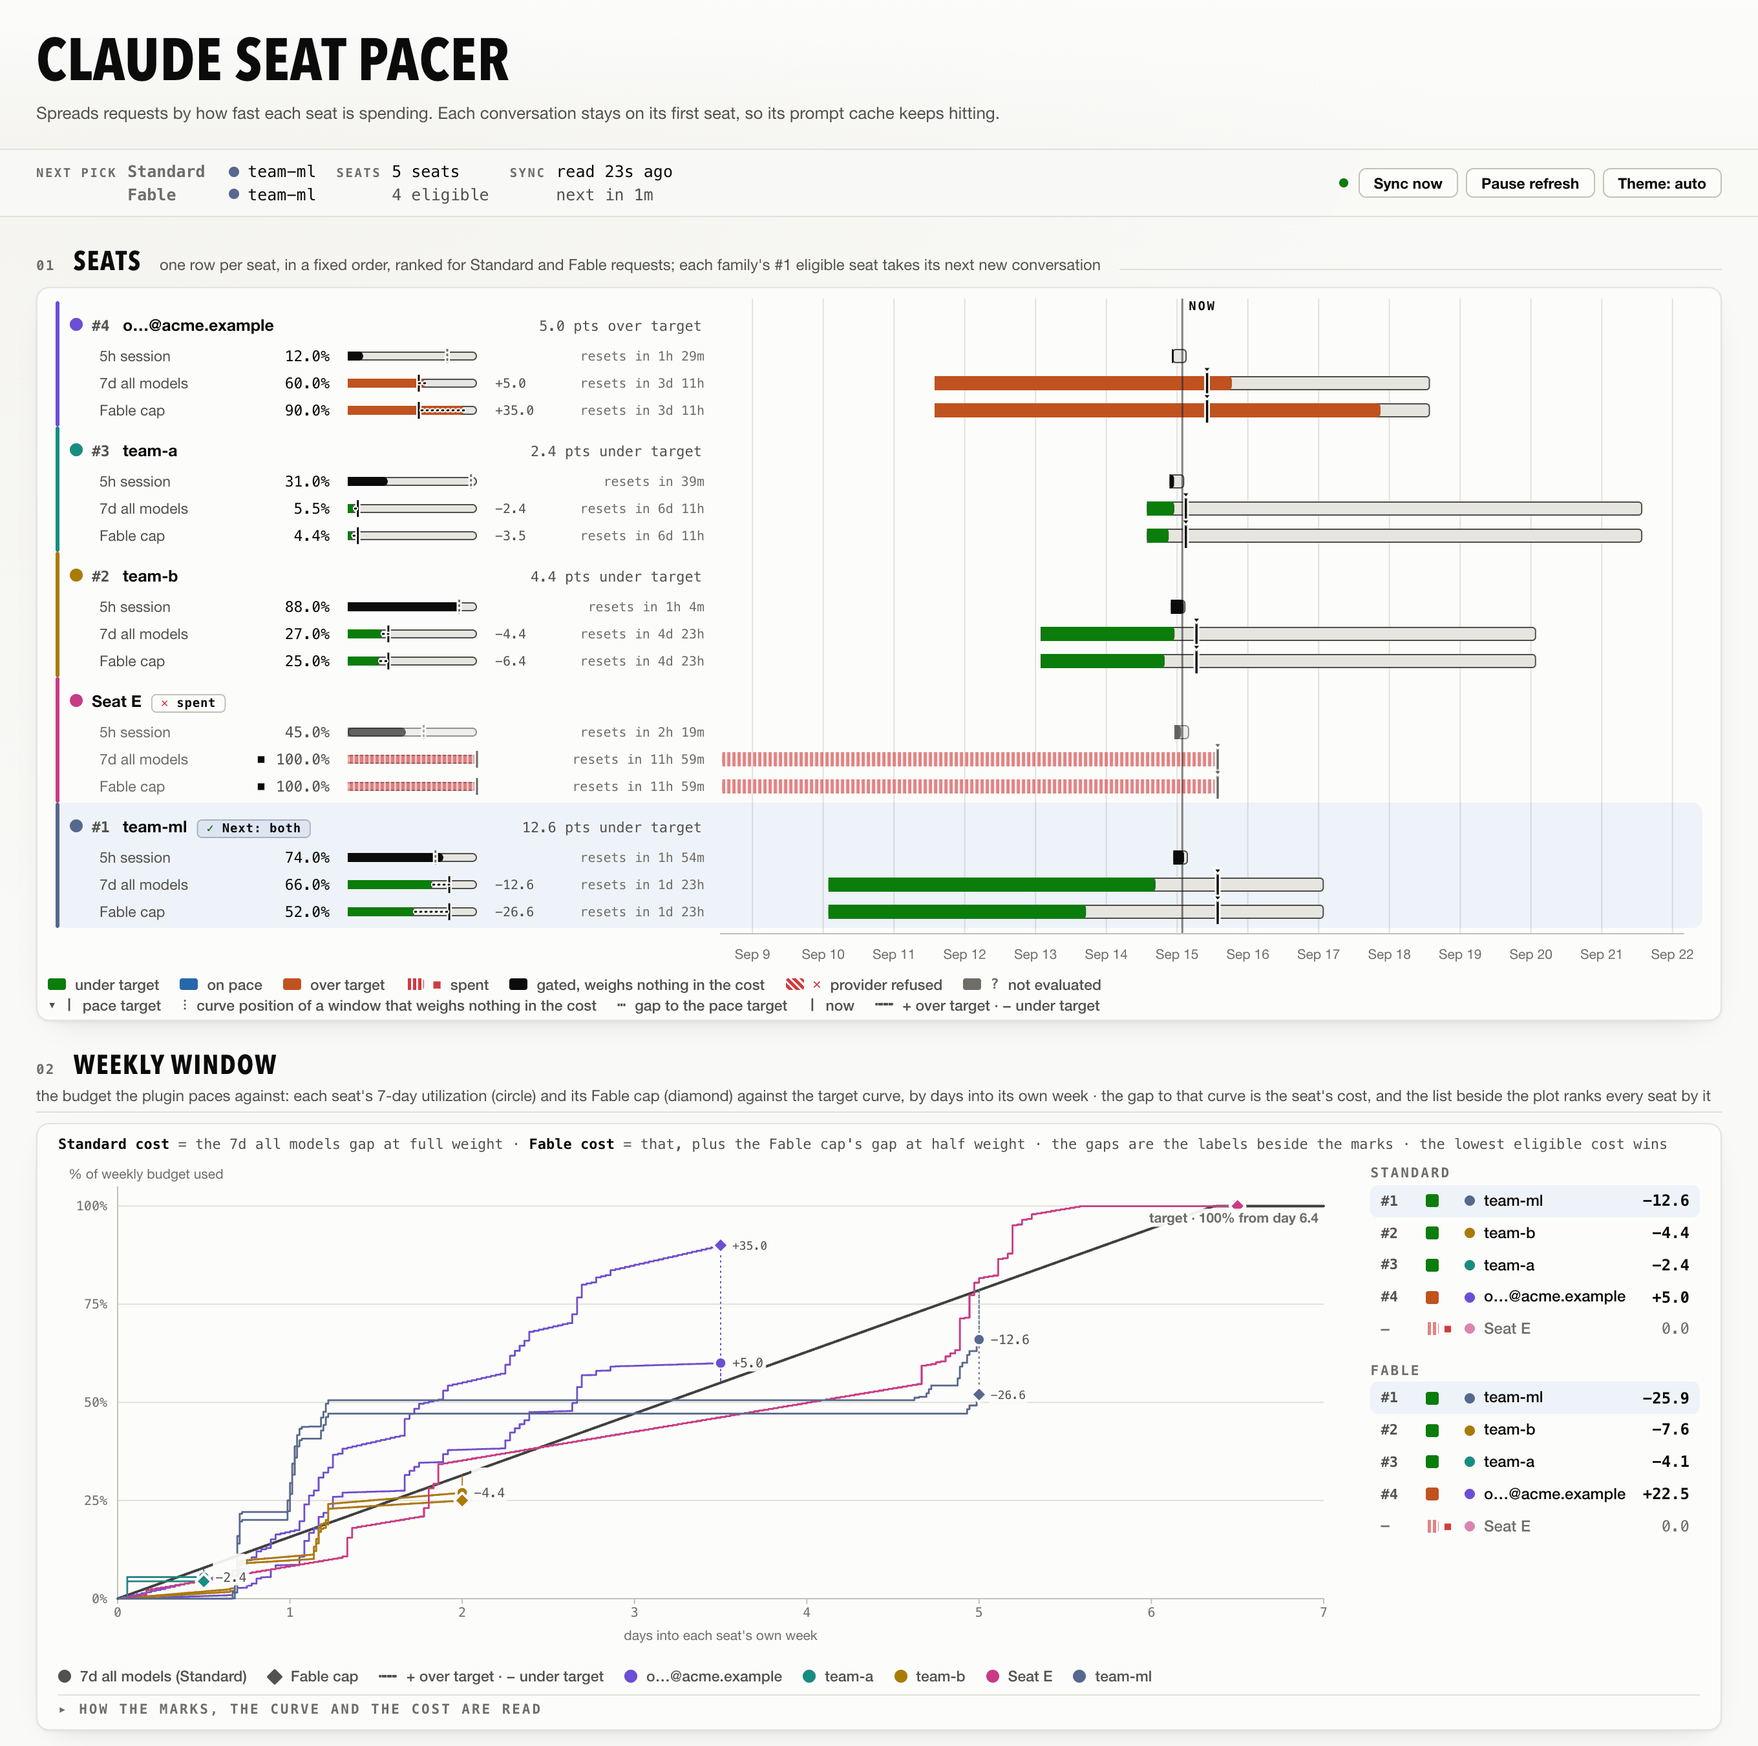
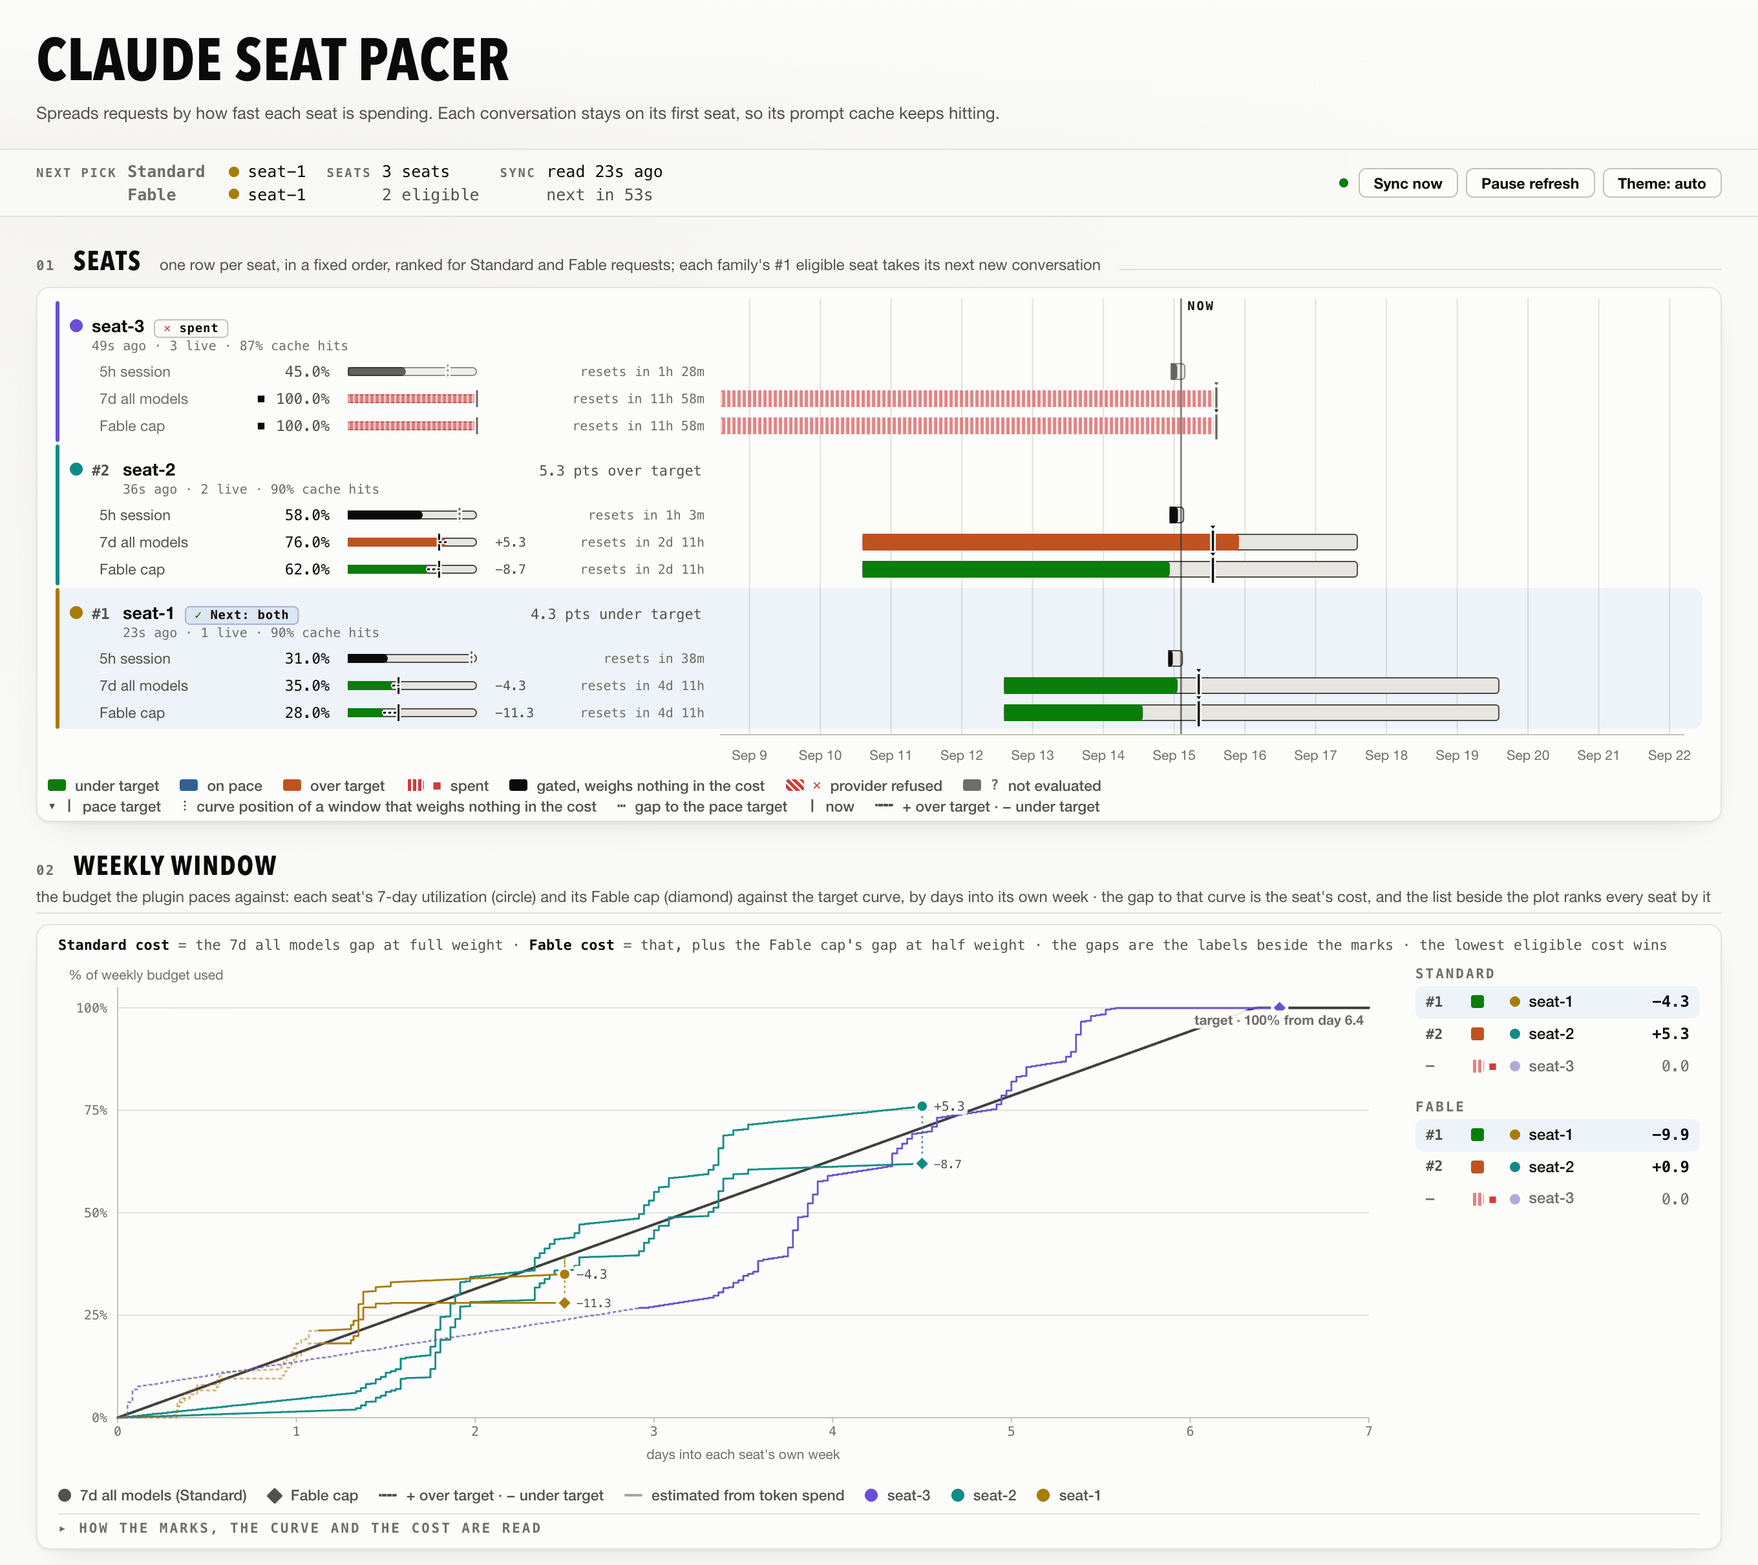
Chore(N/A): Show three seats in the hero, replaying one recorded week on the wall clock
The hero pool is seat-1, seat-2 and seat-3 at 2.5, 4.5 and 6.5 days
into their weeks, the last spent. Every seat's weekly windows replay one
recording indexed by time before now, so a sample at one instant reads
the same recorded position on every seat: an idle day on one seat is an
idle day on all of them. The recording is the one whose landed replays
sit nearest the pace target across the pool.

diff --git a/cmd/webdev/main.go b/cmd/webdev/main.go
@@ -413,6 +413,7 @@ func (f *fixture) rankAt(snaps map[string]model.AuthSnapshot, ids []string, mode
 // window list rather than a nil one, which is what the host-backed status
 // substitutes and what the page renders against.
 func (f *fixture) rows(now time.Time, modelID string) []model.AuthStatus {
+	shapeIdx := f.paceShapeIdx(now)
 	auths := make([]model.AuthStatus, 0, len(f.auths))
 	for _, a := range f.auths {
 		snap, ok := f.snapshots[a.AuthID]
@@ -426,7 +427,7 @@ func (f *fixture) rows(now time.Time, modelID string) []model.AuthStatus {
 		a.Score = pace.ScoreWithStaleness(f.cfg, snap, ok, a.AuthID, modelID, now)
 		a.History = []model.WindowHistory{}
 		if ok {
-			a.History = f.history(snap, now)
+			a.History = f.history(snap, now, shapeIdx)
 		}
 		auths = append(auths, a)
 	}
@@ -615,26 +616,30 @@ type manySeat struct {
 	state string
 }
 
-// The first five rows are the pool `many -seats 5` renders, and they are the
-// pool the README's hero shows: half a day, two days, three and a half, five
-// and six and a half into their own weeks, so their marks spread across the
-// pace plot, and utilizations that put three seats under the target curve, the
-// critical one over it and still eligible, and the last spent. Fable is most of
-// what these seats spend, so each one's family cap sits within a quarter of its
-// weekly figure — the critical seat excepted, whose cap over its week is the
-// state it exists to draw. The rest carry the exceptional states, one per row.
+// The first three rows are the pool `many -seats 3` renders, and they are the
+// pool the README's hero shows: three plainly named seats two and a half, four
+// and a half and six and a half days into their own weeks, so their marks
+// spread across the pace plot, with the first a little under the pace target,
+// the second a little over it and the third spent. Fable is most of what these
+// seats spend, so each one's family cap sits within a quarter of its weekly
+// figure — the critical seat excepted, whose cap over its week is the state it
+// exists to draw. Behind them come the exceptional states, one per row, then
+// the plain seats and the naming collisions a grown pool produces, so `many
+// -seats 12` still draws every state the page can render.
 var manySeats = []manySeat{
-	{id: "claude-alice-team-a.json", name: "claude-alice-team-a.json", email: "alice@example.com", session: 0.31, weekly: 0.055, scoped: 0.044, elapsedDays: 0.5},
-	{id: "claude-alice-team-b.json", name: "claude-alice-team-b.json", email: "alice@example.com", session: 0.88, weekly: 0.27, scoped: 0.25, elapsedDays: 2},
+	{id: "claude-seat-1.json", label: "seat-1", name: "claude-seat-1.json", session: 0.31, weekly: 0.35, scoped: 0.28, elapsedDays: 2.5},
+	{id: "claude-seat-2.json", label: "seat-2", name: "claude-seat-2.json", session: 0.58, weekly: 0.76, scoped: 0.62, elapsedDays: 4.5},
+	{id: "claude-seat-3.json", label: "seat-3", name: "claude-seat-3.json", session: 0.45, weekly: 1.0, scoped: 1.0, elapsedDays: 6.5, state: "spent"},
 	{id: "claude-ops@acme.example.json", name: "claude-ops@acme.example.json", email: "ops@acme.example", session: 0.12, weekly: 0.60, scoped: 0.90, elapsedDays: 3.5, state: "critical"},
-	{id: "claude-team-ml.json", name: "claude-team-ml.json", email: "svc.ml@acme.example", session: 0.74, weekly: 0.66, scoped: 0.52, elapsedDays: 5},
-	{id: "claude-seat-e.json", label: "Seat E", name: "claude-seat-e.json", session: 0.45, weekly: 1.0, scoped: 1.0, elapsedDays: 6.5, state: "spent"},
 	{id: "claude-quota.bot@acme-corp.example.json", name: "claude-quota.bot@acme-corp.example.json", email: "quota.bot@acme-corp.example", session: 0.05, weekly: 0.09, scoped: 0.0, state: "stale"},
 	{id: "claude-team-data.json", name: "claude-team-data.json", email: "svc.data@acme.example", session: 0.52, weekly: 0.40, scoped: 0.33, state: "error"},
 	{id: "claude-team-infra.json", name: "claude-team-infra.json", email: "svc.infra@acme.example", session: 0.0, weekly: 0.0, scoped: 0.0, state: "nosnap"},
 	{id: "claude-team-mobile.json", name: "claude-team-mobile.json", email: "svc.mobile@acme.example", session: 0.67, weekly: 0.47, scoped: 0.51, state: "scoped-rejected"},
 	{id: "claude-team-web.json", name: "claude-team-web.json", email: "svc.web@acme.example", session: 0.20, weekly: 0.15, scoped: 0.09, state: "disabled"},
 	{id: "claude-oncall@acme.example.json", name: "claude-oncall@acme.example.json", email: "oncall@acme.example", session: 1.00, weekly: 0.58, scoped: 0.44, state: "rejected"},
+	{id: "claude-alice-team-a.json", name: "claude-alice-team-a.json", email: "alice@example.com", session: 0.31, weekly: 0.055, scoped: 0.044, elapsedDays: 0.5},
+	{id: "claude-alice-team-b.json", name: "claude-alice-team-b.json", email: "alice@example.com", session: 0.88, weekly: 0.27, scoped: 0.25, elapsedDays: 2},
+	{id: "claude-team-ml.json", name: "claude-team-ml.json", email: "svc.ml@acme.example", session: 0.74, weekly: 0.66, scoped: 0.52, elapsedDays: 5},
 	{id: "claude-team-qa.json", name: "claude-team-qa.json", email: "svc.qa@acme.example", session: 0.38, weekly: 0.29, scoped: 0.24},
 }
 
@@ -718,9 +723,9 @@ func (f *fixture) addManySeat(i int, ms manySeat) {
 	f.observedAge[ms.id] = time.Duration(20+13*i) * time.Second
 	elapsed := ms.elapsedDays
 	if elapsed <= 0 {
-		// Seats past the scripted five take axis positions those five leave
-		// open: a quarter-day lattice offset from theirs, which repeats only
-		// after 25 seats and never lands on one of their marks.
+		// Seats carrying no elapsedDays take axis positions the scripted ones
+		// leave open: a quarter-day lattice offset from theirs, which repeats
+		// only after 25 seats and never lands on one of their marks.
 		elapsed = 0.875 + math.Mod(1+1.5*float64(i), 6.25)
 	}
 	// Both weekly windows reset together, as a provider resets a seat's whole
@@ -845,12 +850,13 @@ func (f *fixture) manyDecisions(ids []string) []model.Decision {
 // thins. The seat's id seeds every choice, so a pool draws a different line
 // per seat and a reload draws the same ones.
 //
-// The two weekly windows replay a real week from pace_shapes.json: the
-// recording whose drift from the pace target at this point in the week is
-// nearest the seat's own, laid over the prefix the seat has lived through and
-// stretched by paceCurve to land on the reading the snapshot carries. Both
-// weekly windows of one seat replay the same recording, so a seat's family
-// cap and its week move together. The 5-hour window keeps a smooth power
+// The two weekly windows replay a real week from pace_shapes.json, indexed by
+// wall-clock time: the recording's 7-day span ends at now, so seats read the
+// same recorded position at the same instant however far apart their cycles
+// started, and paceCurve stretches the replay onto the reading the snapshot
+// carries. One recording serves the whole pool and both weekly windows of one
+// seat, so every seat's flats and bursts fall at the same wall-clock times and
+// a seat's family cap moves with its week. The 5-hour window keeps a smooth power
 // curve, which is what a window that short and steep looks like; a third of
 // the seats get a steeper last forty minutes, the case the chart's
 // conversation markers exist for, and another third hold it flat through the
@@ -858,30 +864,18 @@ func (f *fixture) manyDecisions(ids []string) []model.Decision {
 // hours apart and the chart's step between them is visible.
 //
 // The completed cycle is an estimate reconstructed from a token log, as a
-// backfilled file holds it; a weekly one replays the other recording at an
-// hour a step, because a log is coarser than a poll. Seats with seed%3 == 1
+// backfilled file holds it; a weekly one replays the other recording over the
+// span ending at the cycle's start, at an hour a step, because a log is
+// coarser than a poll. Seats with seed%3 == 1
 // also start the current cycle as an estimate over its first 45%, so the chart
 // shows a mixed cycle: estimated, then observed from the plugin's first
 // reading.
-func (f *fixture) history(snap model.AuthSnapshot, now time.Time) []model.WindowHistory {
+func (f *fixture) history(snap model.AuthSnapshot, now time.Time, shapeIdx int) []model.WindowHistory {
 	seed := 0
 	for _, c := range snap.AuthID {
 		seed = (seed*31 + int(c)) % 997
 	}
 	sessionShape := 0.8 + float64(seed%9)/10
-	// One recording and one phase per seat, chosen on its 7-day window, so its
-	// week and its family cap replay the same stretch and move together. The
-	// phase is where in the recorded week the replay starts; the seed spreads
-	// a pool across the week so no two seats share a flat.
-	phase := float64(seed%11) / 11
-	shapeIdx := 0
-	for _, w := range snap.Windows {
-		if w.Kind == model.WindowWeekly && w.Duration > 0 && !w.ResetsAt.IsZero() {
-			start := w.ResetsAt.Add(-w.Duration)
-			shapeIdx = paceShapeFor(f.cfg.Pace, now.Sub(start).Seconds()/w.Duration.Seconds(), w.Utilization, phase)
-			break
-		}
-	}
 	store := quota.NewStore()
 	var saved []model.WindowHistory
 	for _, w := range snap.Windows {
@@ -905,7 +899,7 @@ func (f *fixture) history(snap model.AuthSnapshot, now time.Time) []model.Window
 			prevStep := time.Hour
 			prevStart := start.Add(-w.Duration)
 			other := paceShapes[(shapeIdx+1)%len(paceShapes)]
-			for i, u := range paceCurve(other, 1, prevLanding, phase, int(w.Duration/prevStep)+1) {
+			for i, u := range paceCurve(other, 1, prevLanding, int(w.Duration/prevStep)+1) {
 				prev.Samples = append(prev.Samples, model.Sample{At: prevStart.Add(time.Duration(i) * prevStep), Utilization: u})
 			}
 		} else {
@@ -931,7 +925,7 @@ func (f *fixture) history(snap model.AuthSnapshot, now time.Time) []model.Window
 		var curve []float64
 		if walks {
 			elapsed := span / w.Duration.Seconds()
-			curve = paceCurve(paceShapes[shapeIdx], elapsed, w.Utilization, phase, n)
+			curve = paceCurve(paceShapes[shapeIdx], elapsed, w.Utilization, n)
 		}
 		for i := 0; i < n; i++ {
 			t := start.Add(time.Duration(i) * step)
@@ -1002,23 +996,48 @@ func loadPaceShapes() [][]pacePoint {
 // flat: a sample between two readings carries the earlier one rather than a
 // value the provider never reported. Before the first reading a cycle is at
 // zero.
-// paceShapeFor is the index of the recording whose replay at this seat's
-// phase, landed on its endpoint, sits nearest the pace target across the whole
-// stretch the seat has lived through. A seat over its curve draws the week that
-// ran over; one under draws the week that ran under.
-func paceShapeFor(cfg model.PaceConfig, elapsed, end, phase float64) int {
+// paceFit is one seat's weekly window as the recording has to fit it: how far
+// through its cycle the seat sits, and the utilization the replay has to land
+// on.
+type paceFit struct{ elapsed, end float64 }
+
+// paceShapeFor is the index of the recording whose replay, landed on each
+// seat's endpoint, sits nearest the pace target summed over the whole pool.
+// One recording serves every seat, which is what puts the same usage pattern
+// at the same wall-clock instant on all of them; a pool that ran over its
+// curve draws the week that ran over, one that ran under draws the week that
+// ran under.
+func paceShapeFor(cfg model.PaceConfig, seats []paceFit) int {
 	const n = 200
 	best, bestDist := 0, math.Inf(1)
 	for i, shape := range paceShapes {
 		dist := 0.0
-		for k, u := range paceCurve(shape, elapsed, end, phase, n) {
-			dist += math.Abs(u - pace.Target(cfg, elapsed*float64(k)/float64(n-1)))
+		for _, s := range seats {
+			for k, u := range paceCurve(shape, s.elapsed, s.end, n) {
+				dist += math.Abs(u - pace.Target(cfg, s.elapsed*float64(k)/float64(n-1)))
+			}
 		}
 		if dist < bestDist {
 			best, bestDist = i, dist
 		}
 	}
 	return best
+}
+
+// paceShapeIdx is the recording the pool replays, fitted to every seat holding
+// a weekly reading.
+func (f *fixture) paceShapeIdx(now time.Time) int {
+	var seats []paceFit
+	for _, snap := range f.snapshots {
+		for _, w := range snap.Windows {
+			if w.Kind == model.WindowWeekly && w.Duration > 0 && !w.ResetsAt.IsZero() {
+				start := w.ResetsAt.Add(-w.Duration)
+				seats = append(seats, paceFit{elapsed: now.Sub(start).Seconds() / w.Duration.Seconds(), end: w.Utilization})
+				break
+			}
+		}
+	}
+	return paceShapeFor(f.cfg.Pace, seats)
 }
 
 func paceReading(shape []pacePoint, frac float64) pacePoint {
@@ -1031,22 +1050,26 @@ func paceReading(shape []pacePoint, frac float64) pacePoint {
 
 // paceCurve lays a recorded week over the stretch this seat has lived through
 // and returns n samples of utilization, 0 at the cycle's start and end at its
-// last sample. The recording is replayed from phase, wrapping at the week's
-// end, as the rises it shows: each step adds what the recording added, so the
-// curve carries that week's overnight flats, its bursts and the rate at which
-// it tracked the pace target. Different seats start at different phases, so a
-// pool replays different stretches of one real week and no two curves share a
-// flat. Whatever that rise leaves between the replay and the seat's endpoint
-// is spread over the span in proportion to elapsed, which keeps the recording's
-// distance from the target at every point and moves the whole curve, not its
-// shape, onto the reading the snapshot carries.
+// last sample. The recording is indexed by wall-clock time: its 7-day span
+// ends where the seat's stretch ends, so a sample a fraction d of a week
+// before that end reads the recording at 1-d, and a seat 2.5 days into its
+// week replays the recording's last 2.5 days. Seats whose cycles started days
+// apart therefore read the same recorded position at the same instant, and
+// the flat one of them draws over a night is the flat all of them draw. The
+// replay is the rises the recording shows: each step adds what the recording
+// added, so the curve carries that week's overnight flats, its bursts and the
+// rate at which it tracked the pace target. Whatever that rise leaves between
+// the replay and the seat's endpoint is spread over the span in proportion to
+// elapsed, which keeps the recording's distance from the target at every point
+// and moves the whole curve, not its shape, onto the reading the snapshot
+// carries.
 //
 // Utilization is read from the recording rather than interpolated between its
 // readings, so the staircase the poller recorded survives the resampling and an
 // idle run stays one flat. A cycle that ends spent reaches full before its
 // reset and holds there, so the recording is laid over the first 86% of the
 // elapsed span and the rest of the curve is the plateau.
-func paceCurve(shape []pacePoint, elapsed, end, phase float64, n int) []float64 {
+func paceCurve(shape []pacePoint, elapsed, end float64, n int) []float64 {
 	if n < 1 {
 		return nil
 	}
@@ -1059,24 +1082,19 @@ func paceCurve(shape []pacePoint, elapsed, end, phase float64, n int) []float64 
 	if end >= 1 {
 		hold = 0.86 * elapsed
 	}
-	prev := paceReading(shape, phase).util
-	prevG := phase
+	// The recording ends where the seat's stretch does, so the replay starts
+	// as far back in the recording as the seat is into its cycle.
+	offset := 1 - elapsed
+	prev := paceReading(shape, offset).util
 	for i := 1; i < n; i++ {
 		f := math.Min(elapsed*float64(i)/float64(n-1), hold)
-		g := phase + f
-		if g >= 1 {
-			g -= 1
-		}
-		cur := paceReading(shape, g).util
+		cur := paceReading(shape, offset+f).util
 		d := cur - prev
-		if g < prevG {
-			d = cur
-		}
 		if d < 0 {
 			d = 0
 		}
 		out[i] = out[i-1] + d
-		prev, prevG = cur, g
+		prev = cur
 	}
 	replayed := out[n-1]
 	for i := range out {

diff --git a/README.md b/README.md
@@ -5,7 +5,7 @@ Spreads Claude requests across your seats by burn pace, and pins each conversati
 <picture>
   <source media="(prefers-color-scheme: dark)" srcset="docs/hero-dark.png">
   <source media="(prefers-color-scheme: light)" srcset="docs/hero-light.png">
-  <img src="docs/hero-light.png" width="900" alt="Screenshot of the Claude Seat Pacer status page, showing the live bar naming the seat the next new conversation will land on, the seats ranked by pace score with the winner highlighted, and the weekly pace plot with the cost-ordered seat list beside it.">
+  <img src="docs/hero-light.png" width="900" alt="Screenshot of the Claude Seat Pacer status page, showing the live bar naming the seat the next new conversation will land on, three seats ranked by pace score with the winner highlighted, and the weekly pace plot with the cost-ordered seat list beside it.">
 </picture>
 
 ## Why
